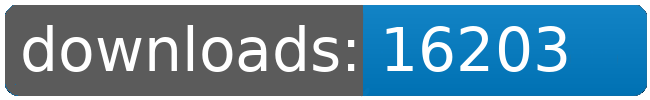
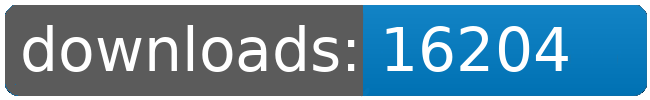
dl log written

Changed region(s): [[0.8, 0.24, 0.8923, 0.72]]

diff --git a/README.md b/README.md
@@ -21,8 +21,8 @@
 		<td>1897</td>
 		<td>1925</td>
 		<td>1950</td>
-		<td>1975</td>
-		<td>+ 25</td>
+		<td>1976</td>
+		<td>+ 26</td>
 	</tr>
 	<tr>
 		<td>Factory.Outlets</td>
@@ -109,8 +109,8 @@
 		<td></td>
 		<td></td>
 		<td></td>
-		<td>16203</td>
-		<td>183</td>
+		<td>16204</td>
+		<td>184</td>
 	</tr>
 </table>
 </sub></sup>
@@ -157,8 +157,8 @@
 		<td>1897</td>
 		<td>1925</td>
 		<td>1950</td>
-		<td>1975</td>
-		<td>+ 25</td>
+		<td>1976</td>
+		<td>+ 26</td>
 	</tr>
 	<tr>
 		<td>Korunak.Defense.Drones</td>
@@ -223,8 +223,8 @@
 		<td></td>
 		<td></td>
 		<td></td>
-		<td>16203</td>
-		<td>183</td>
+		<td>16204</td>
+		<td>184</td>
 	</tr>
 </table>
 </sub></sup>
